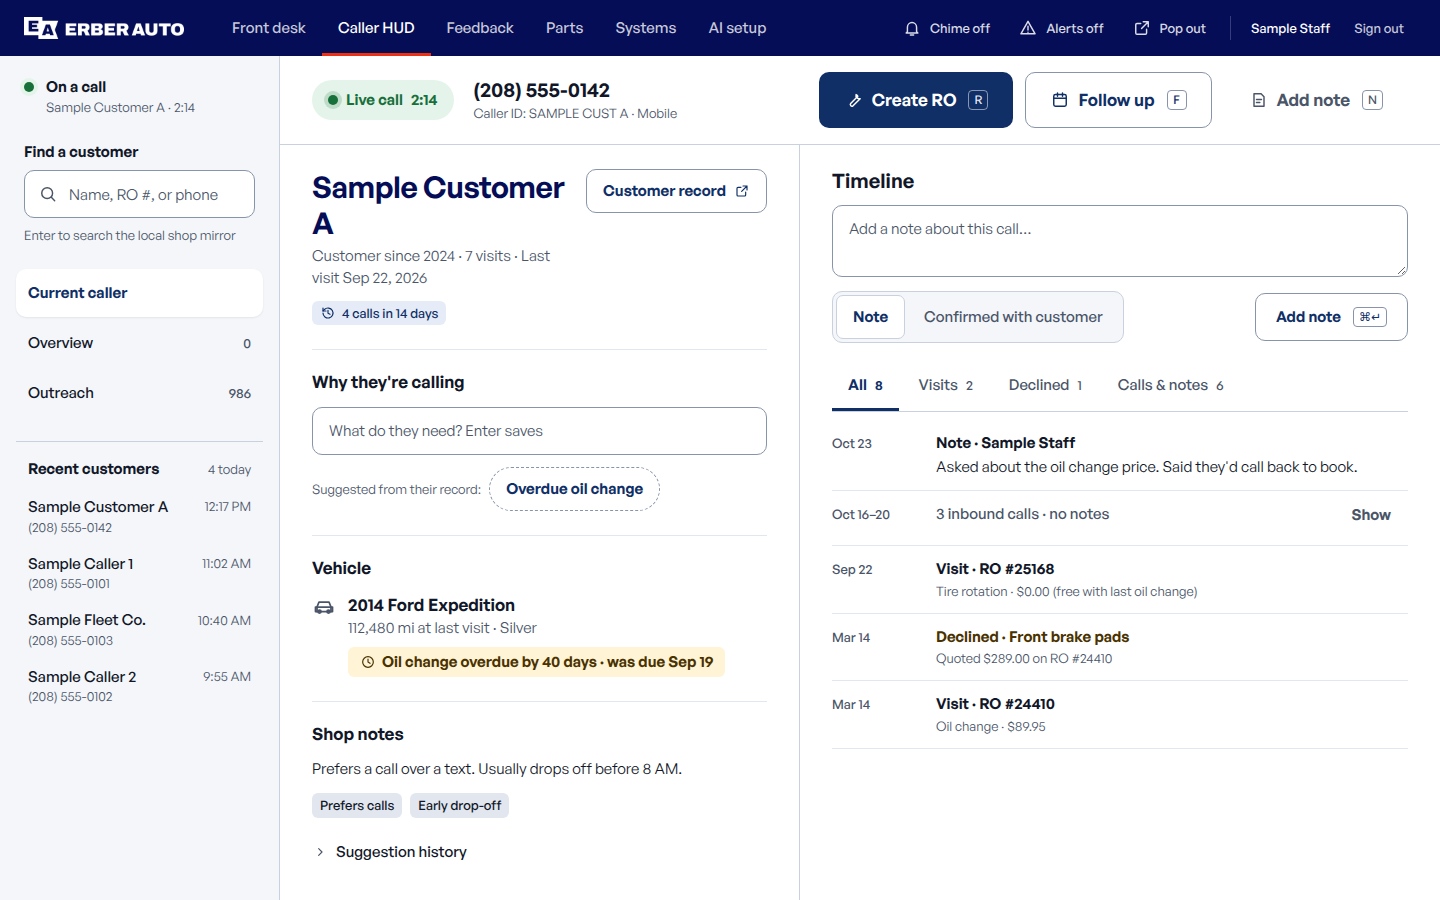
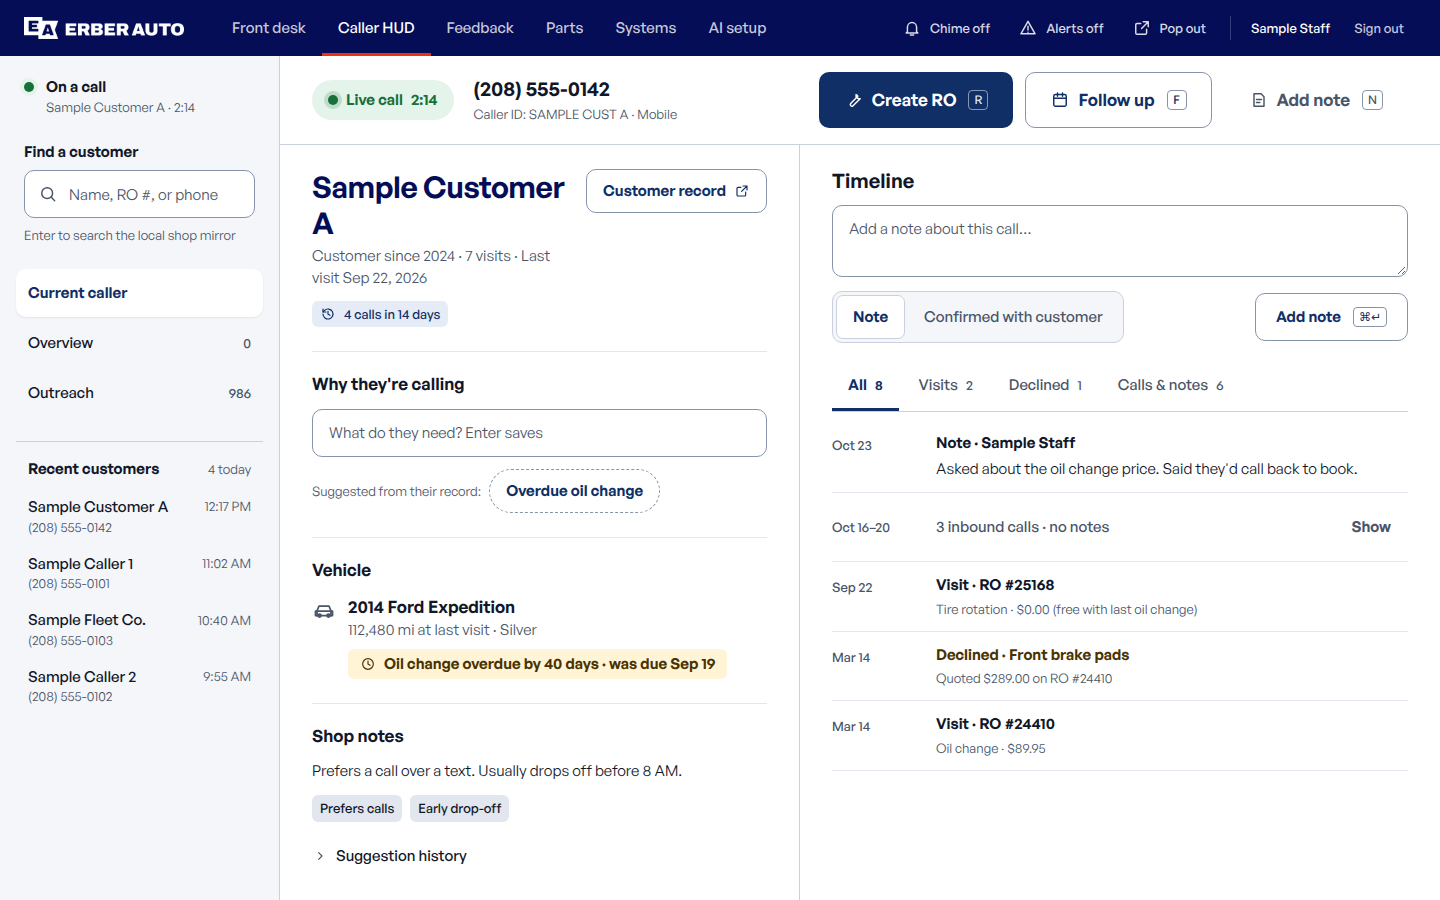
Caller HUD hill-climb round 2: spacing on the token scale

diff --git a/caller-hud-review/hud.css b/caller-hud-review/hud.css
@@ -23,7 +23,7 @@
 .pulse { width: 10px; height: 10px; border-radius: 50%; background: var(--color-success); box-shadow: 0 0 0 4px rgba(23,112,58,.18); }
 .timer { font-variant-numeric: tabular-nums; }
 .num { font-size: var(--text-lg); font-weight: var(--weight-semibold); color: var(--color-text); line-height: var(--leading-tight); }
-.callerid { font-size: var(--text-xs); color: var(--color-text-muted); margin-top: 2px; }
+.callerid { font-size: var(--text-xs); color: var(--color-text-muted); margin-top: var(--space-1); }
 .call-actions { display: flex; gap: var(--space-3); flex: none; }
 
 /* ---------- Two columns ---------- */
@@ -37,9 +37,9 @@
 .cust-flags { margin-top: var(--space-3); display: flex; gap: var(--space-2); }
 
 .chip {
-  display: inline-flex; align-items: center; gap: 6px;
+  display: inline-flex; align-items: center; gap: var(--space-2);
   font-size: var(--text-xs); font-weight: var(--weight-medium);
-  padding: 3px var(--space-2); border-radius: var(--radius-sm);
+  padding: var(--space-1) var(--space-2); border-radius: var(--radius-sm);
   background: var(--color-disabled-bg); color: var(--color-text);
 }
 .chip-info { background: var(--color-info-bg); color: var(--color-navy); }
@@ -70,12 +70,12 @@
 .hint-sm { font-size: var(--text-xs); color: var(--color-text-muted); margin-top: var(--space-2); }
 
 .vehicle { display: flex; gap: var(--space-3); align-items: flex-start; }
-.veh-ico { width: 24px; height: 24px; color: var(--color-text-muted); margin-top: 2px; }
+.veh-ico { width: 24px; height: 24px; color: var(--color-text-muted); margin-top: var(--space-1); }
 .veh-name { font-size: var(--text-base); font-weight: var(--weight-semibold); }
 .veh-meta { color: var(--color-text-muted); }
 .veh-due {
-  display: inline-flex; align-items: center; gap: 6px; margin-top: var(--space-2);
-  padding: 4px var(--space-3); border-radius: var(--radius-sm);
+  display: inline-flex; align-items: center; gap: var(--space-2); margin-top: var(--space-2);
+  padding: var(--space-1) var(--space-3); border-radius: var(--radius-sm);
   background: var(--color-warning-bg); color: var(--color-warning-text);
   font-weight: var(--weight-semibold);
 }
@@ -118,10 +118,10 @@
   display: grid; grid-template-columns: 88px minmax(0, 1fr) auto; gap: var(--space-4); align-items: start;
   padding: var(--space-3) 0; border-bottom: 1px solid var(--color-disabled-bg);
 }
-.ev time { font-size: var(--text-xs); color: var(--color-text-muted); font-weight: var(--weight-medium); padding-top: 2px; }
+.ev time { font-size: var(--text-xs); color: var(--color-text-muted); font-weight: var(--weight-medium); padding-top: var(--space-1); }
 .ev-title { font-weight: var(--weight-semibold); }
-.ev-meta { color: var(--color-text-muted); font-size: var(--text-xs); margin-top: 2px; }
-.ev-body { margin-top: 2px; line-height: 1.5; max-width: 64ch; }
+.ev-meta { color: var(--color-text-muted); font-size: var(--text-xs); margin-top: var(--space-1); }
+.ev-body { margin-top: var(--space-1); line-height: 1.5; max-width: 64ch; }
 .ev-declined .ev-title { color: var(--color-warning-text); }
 .ev-group .ev-title { color: var(--color-text-muted); font-weight: var(--weight-medium); }
 .ev-group { align-items: center; }
